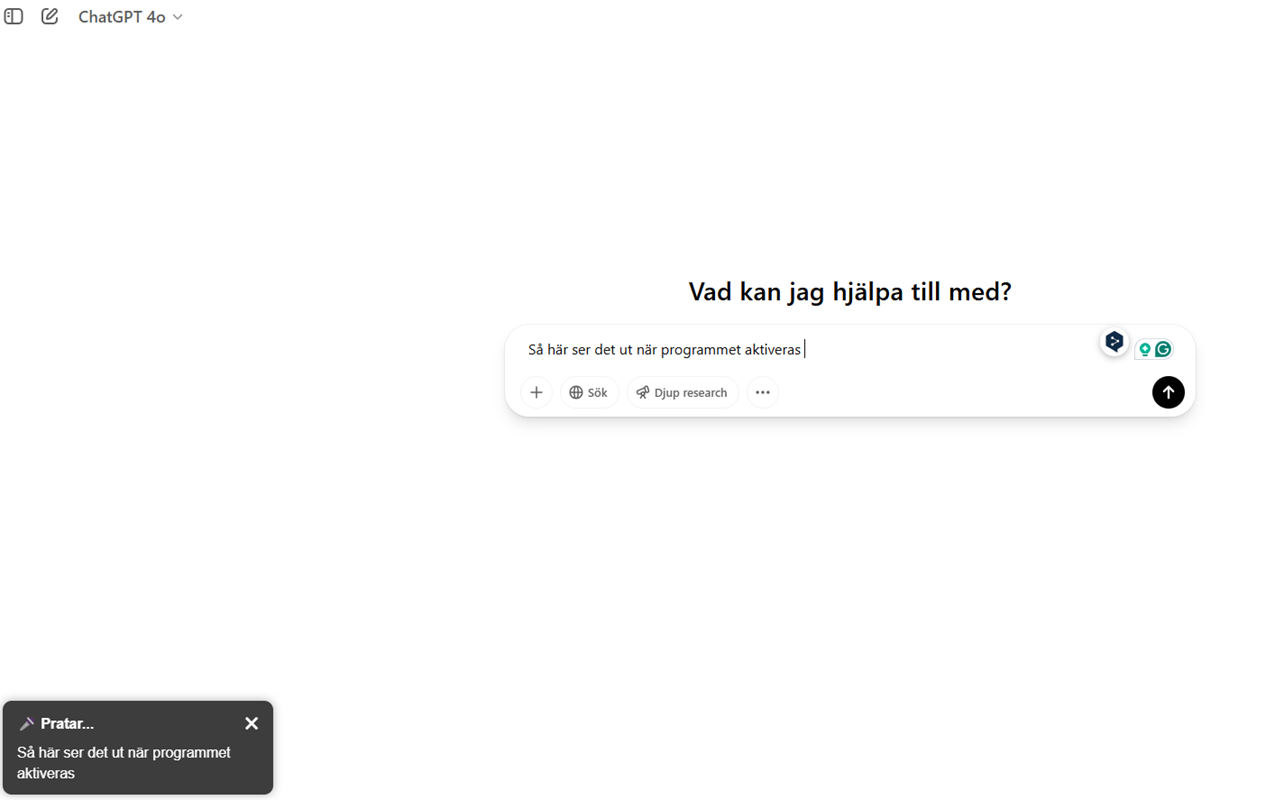
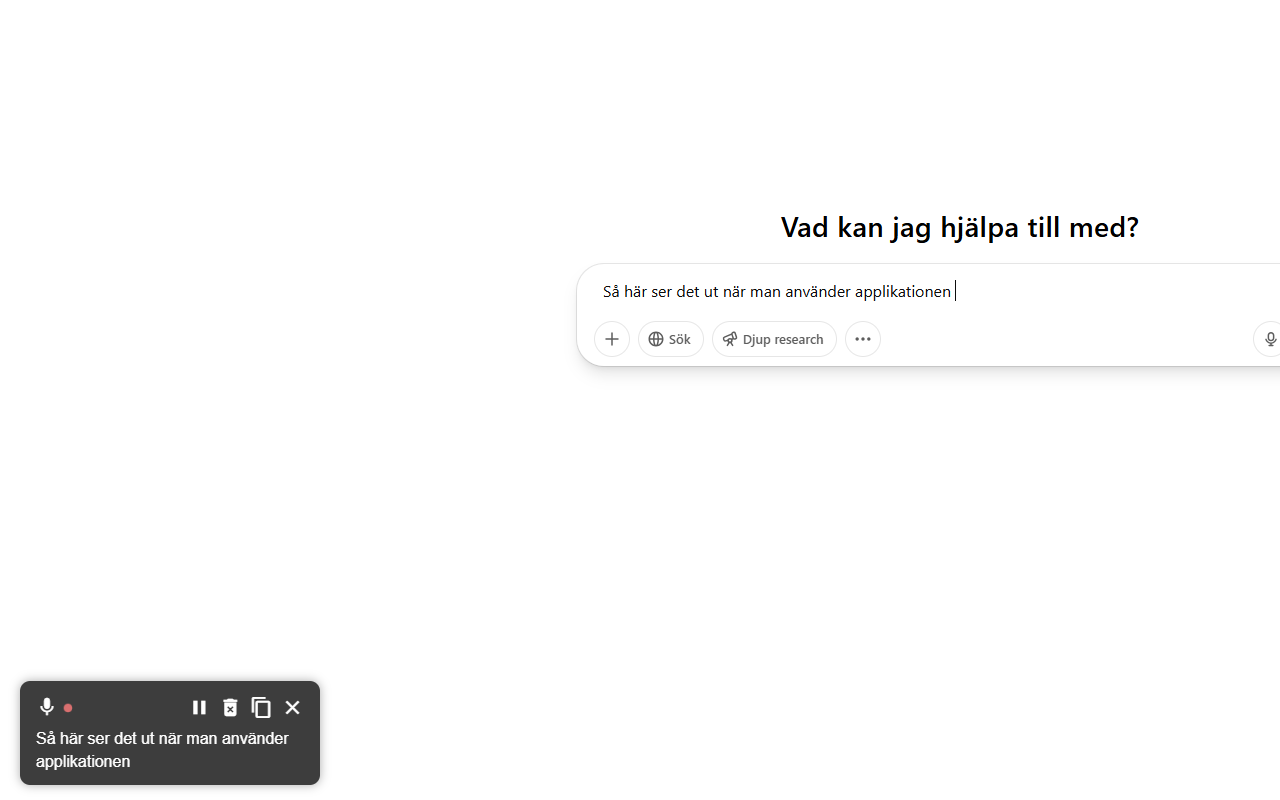
ändrade README kring installation

diff --git a/README.md b/README.md
@@ -1,30 +1,51 @@
-# 🗣 Pratkvarn – Chrome-tillägg
+# 🗣 Pratkvarn – Chrome‑tillägg v1.1.0
 
-Ett enkelt Chrome-tillägg som gör röst-till-text direkt i webbläsaren – på svenska 🇸🇪.
+Ett lättviktigt Chrome‑tillägg som transkriberar röst till text direkt i webbläsaren på svenska 🇸🇪.
 
-## Funktioner
+---
 
-- 🎤 Röst-till-text med overlay
-- 🧠 Fungerar lokalt med Web Speech API
-- ✍ Klistrar in text i valfritt textfält
-- ❌ Stängknapp & automatisk omstart
+## 🆕 Nytt i v1.1.0
+- ⏯ **Paus/återuppta‑knapp** — pausa taligenkänningen utan att stänga overlay  
+- 🗑 **Rensa‑knapp** — töm overlayen helt med ett klick  
+- 📋 **Kopiera‑knapp** — kopiera hela transkriptionen till urklipp  
+- 🎨 **Uppdaterad styling** med Material Icons och pulserande inspelningsindikator  
+- ⚙ **Fasta mått** på overlay (min‑bredd och min‑höjd) för konsekvent utseende  
 
-## Installation
+---
 
-1. Klona detta repo
-2. Gå till `chrome://extensions`
-3. Aktivera utvecklarläge
-4. Klicka på "Ladda upp okomprimerat" och välj mappen
+## 🚀 Funktioner
+- 🎤 **Realtids röst‑till‑text** i ett flytande overlay  
+- ✍ **Automatisk infogning** i valt textfält när du pratar klart  
+- 🔄 **Automatisk omstart** efter tillfälliga avbrott från Chrome  
+- 🔒 **Helt lokal** – inga ljuddata lämnar din dator eller sparas på externa servrar  
 
-## Licens
+---
 
-MIT
+## 📥 Installation via Chrome Web Store
+1. Öppna Chrome och gå till [Chrome Web Store](https://chrome.google.com/webstore).  
+2. Sök efter **Pratkvarn** eller följ direktlänken.  
+3. Klicka **Lägg till i Chrome** och bekräfta installationen.  
+4. Du hittar ikonen uppe till höger i verktygsfältet när den är installerad.
 
-## Vad gör det här tillägget?
+---
 
-När du klickar på tilläggets ikon visas en liten ruta längst ner på skärmen. Då börjar mikrofonen lyssna och transkribera det du säger. När du slutar prata klistras texten automatiskt in i det fält du hade klickat i. Allt sker lokalt i webbläsaren – ingen data skickas eller sparas.
+## ⚙ Användning
+1. Klicka på Pratkvarn‑ikonen i Chrome‑verktygsfältet  
+2. En overlay dyker upp längst ner till vänster och börjar lyssna  
+3. Tala som vanligt — det du säger visas i realtid i rutan  
+4. Använd kontrollerna:
+   - ⏯ Pausa/återuppta inspelningen  
+   - 🗑 Rensa all visad text  
+   - 📋 Kopiera hela texten till urklipp  
+   - ❌ Stäng overlayen och stoppa inspelningen  
+5. Efter avslutad inspelning klistras texten automatiskt in i det fält du hade fokuserat
 
-## Sekretess
+---
 
-Pratkvarn använder endast mikrofonen när du aktivt startar tillägget. Ingen data skickas vidare, sparas eller behandlas av externa servrar.
+## 🔐 Sekretess
+Pratkvarn använder Web Speech API helt lokalt. Inget ljud eller text skickas till externa servrar eller sparas utanför din webbläsare.
 
+---
+
+## 📄 Licens
+MIT License  
